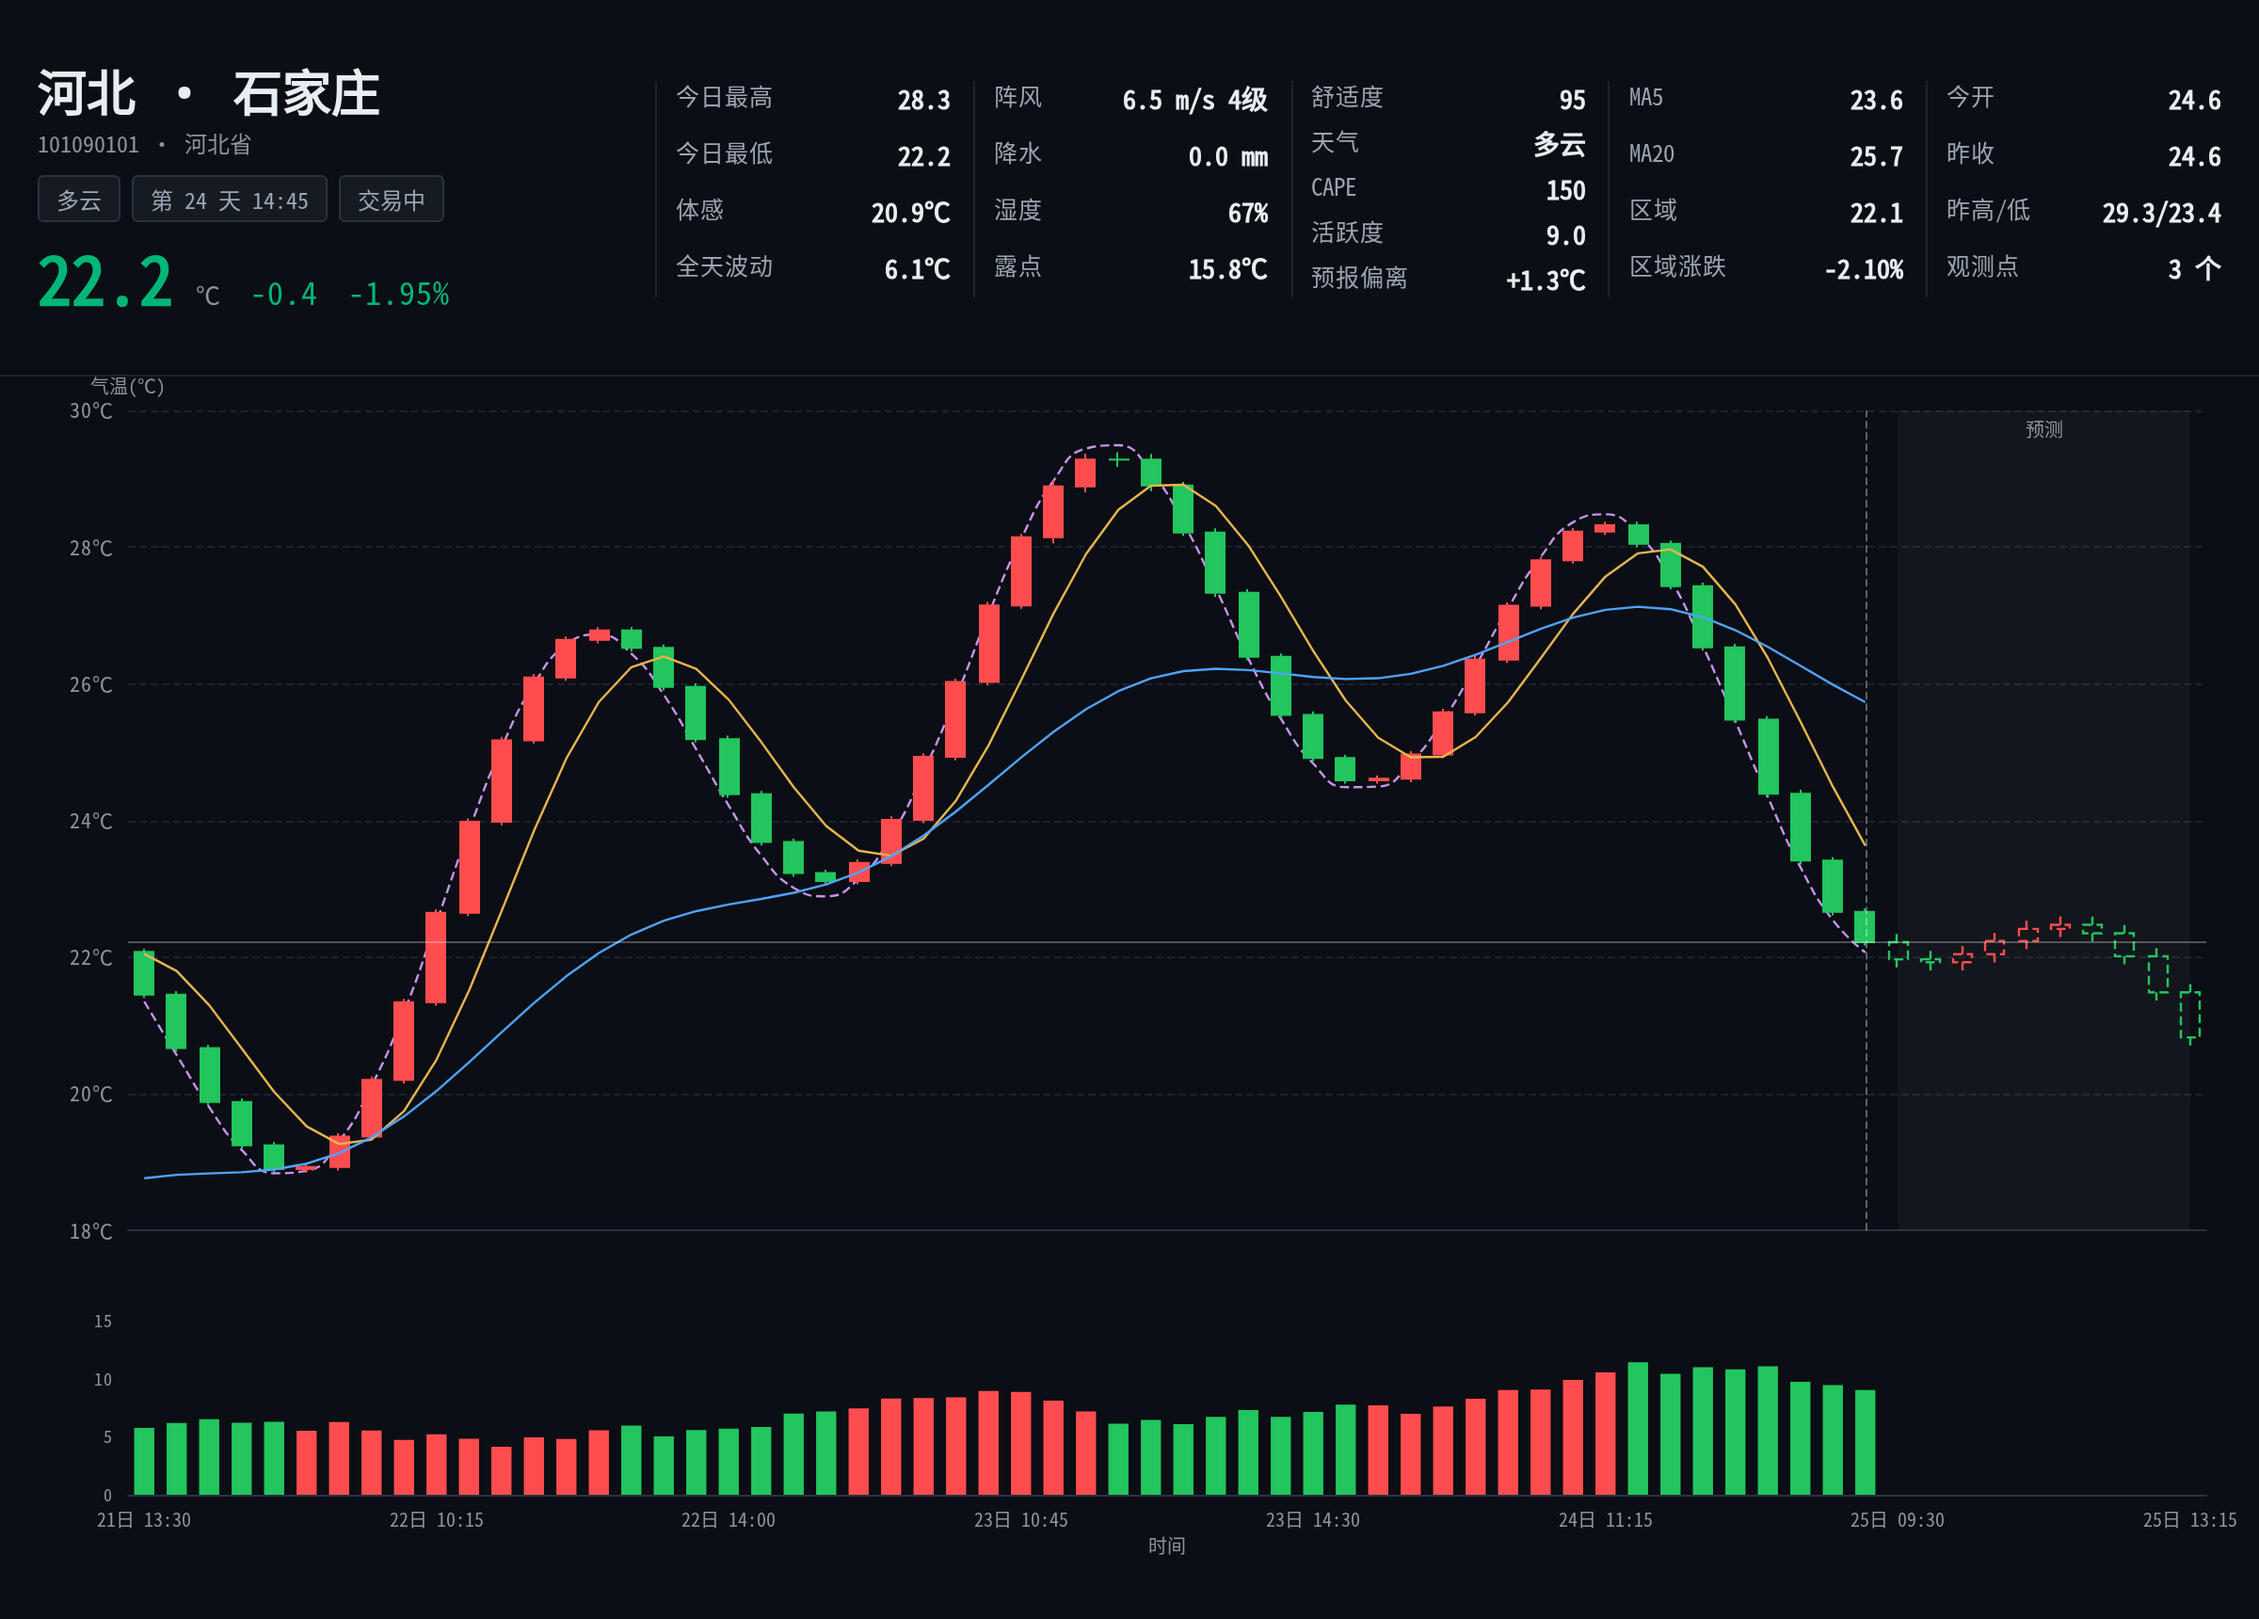
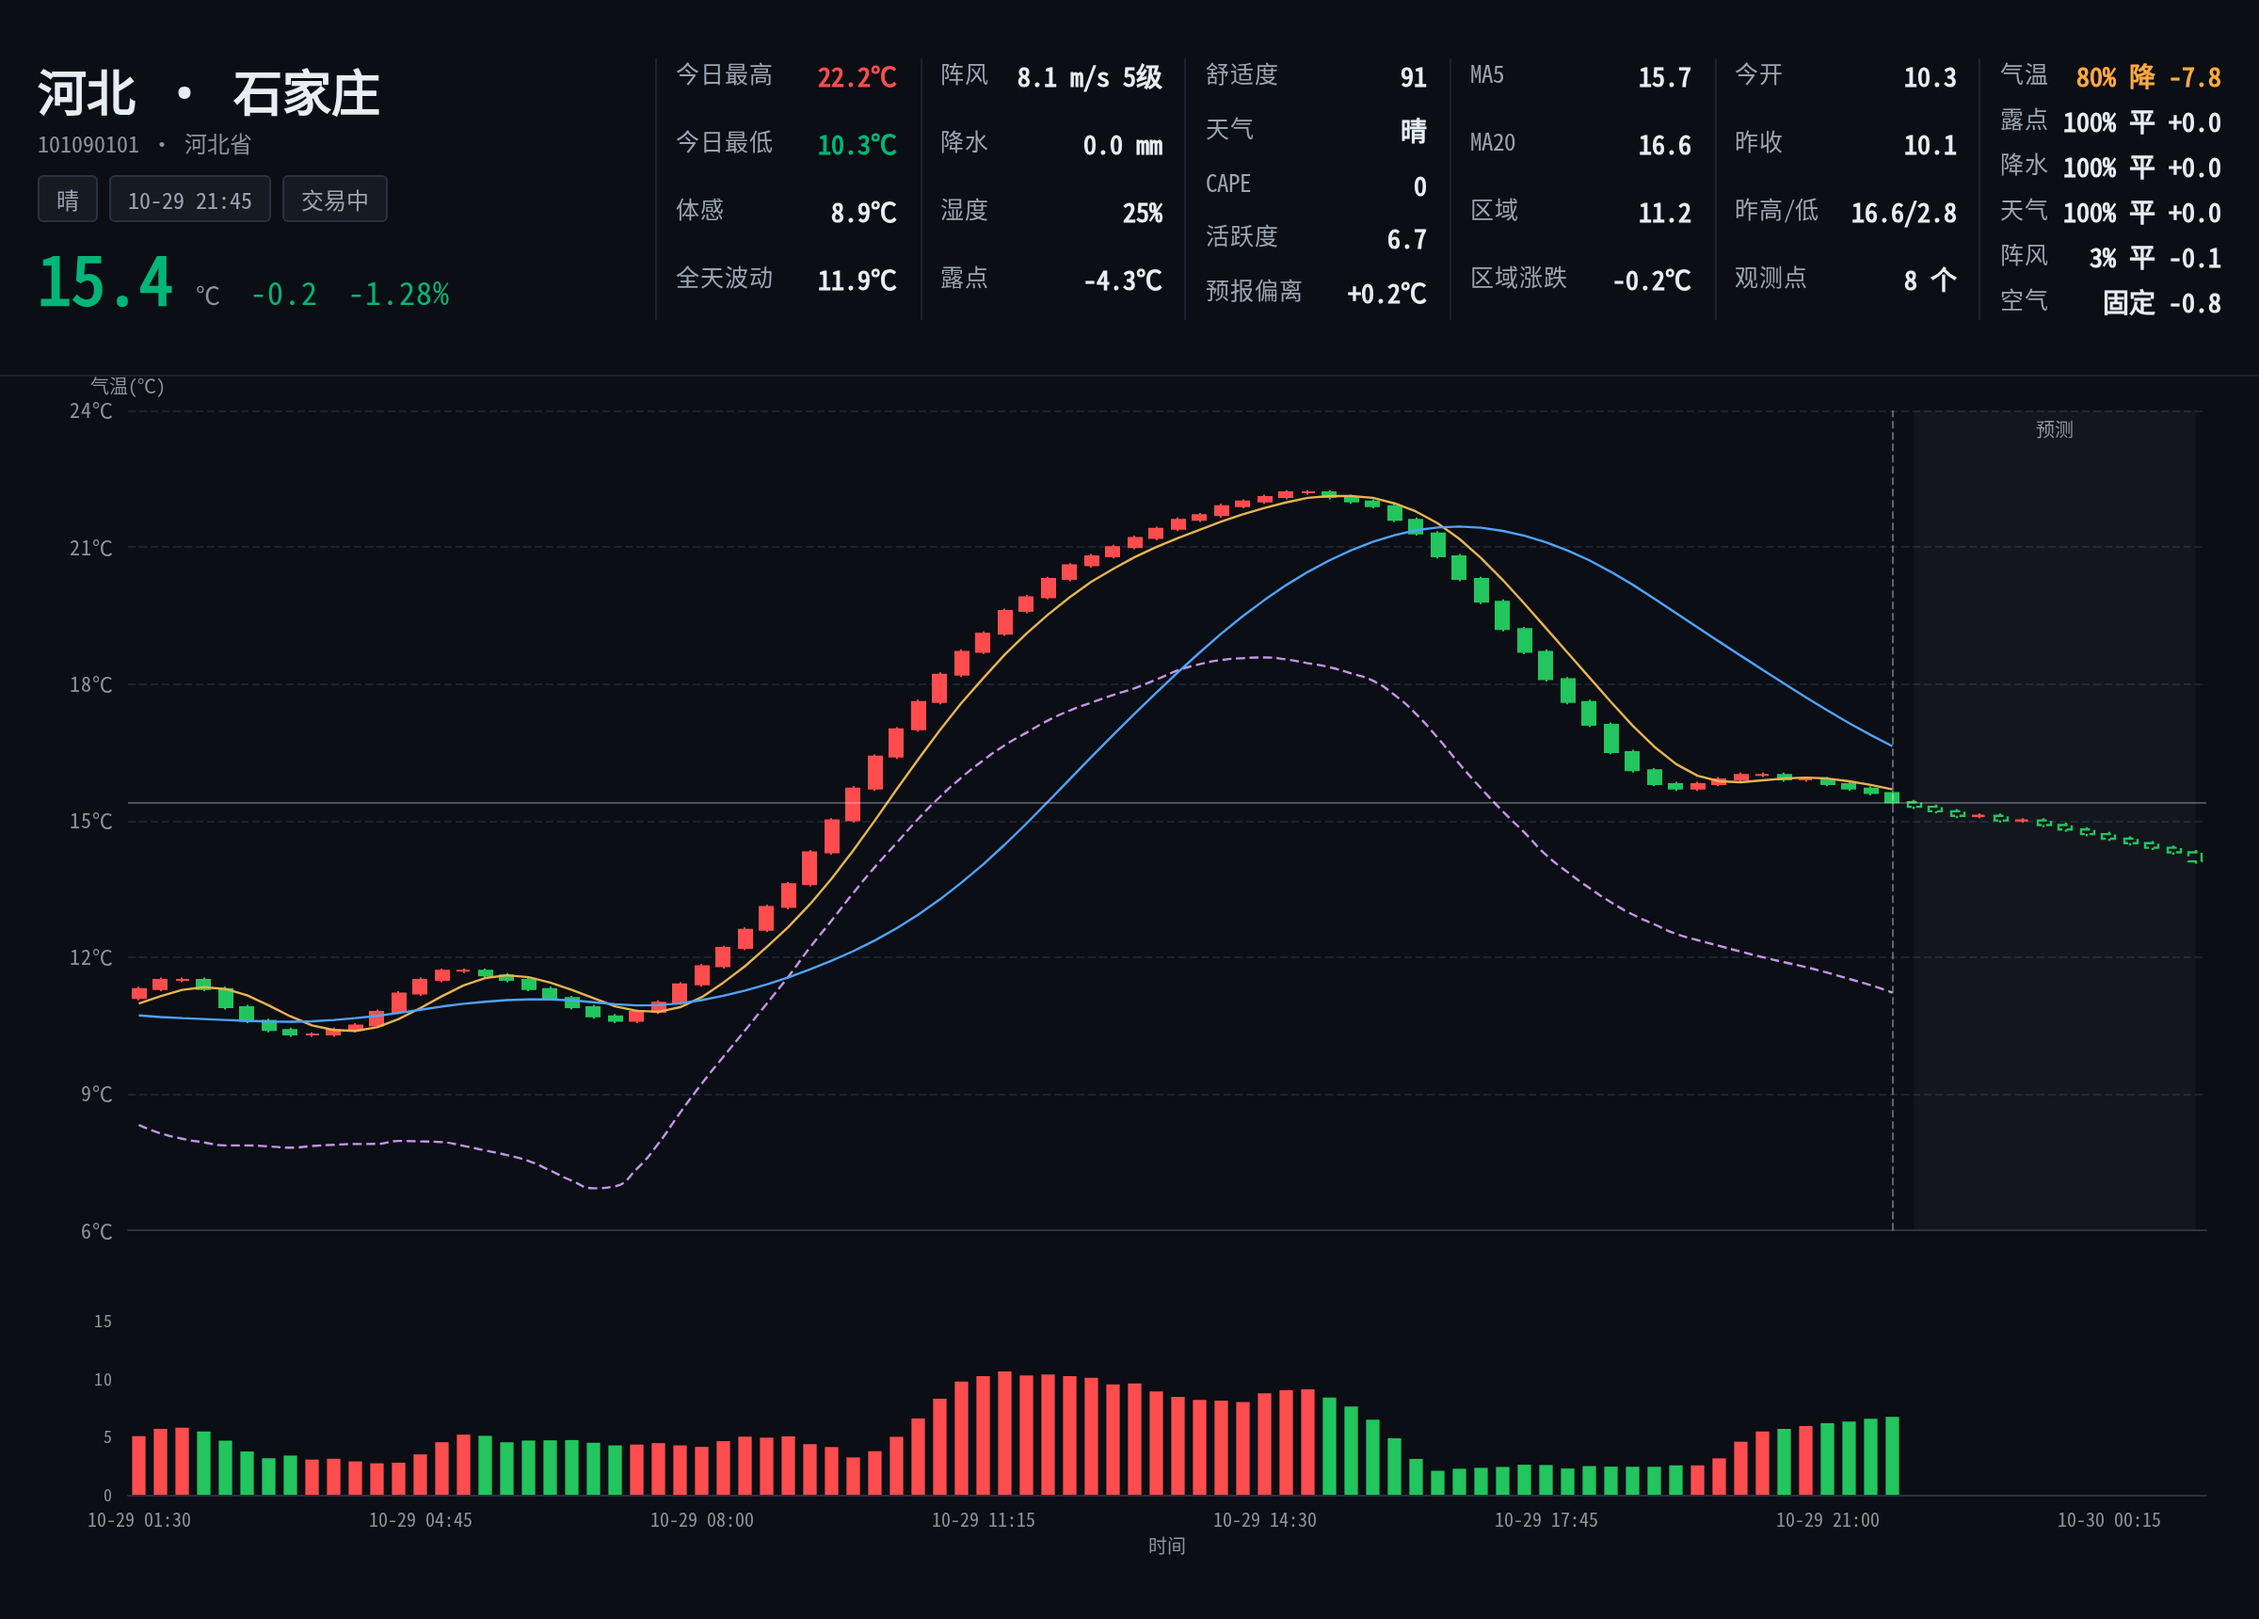
feat(chart): 图头高低温补 ℃ 单位并按红/绿着色，同步重拍 README 主图
- 「今日最高」显示红色、「今日最低」显示绿色；复用主题的 .up/.down 语义
- .qs span 的优先级高于 .up/.down，新增 .qs span.up / .qs span.down 规则
- 图头分组项支持可选的第三个元素作为 CSS class，旧的二元组保持兼容
- sample_header 演示数据同步；新增测试断言单位与 class
- docs/main-chart.png 用当前引擎接真实数据重拍：高低温带 ℃ 与红绿、
  图头含第 6 列压力表、200px 高度与 K 线无重叠，分辨率仍为 2400×1720
- 版本 0.6.5

diff --git a/nonebot_plugin_weather_fighter/render/templates/main_chart.html b/nonebot_plugin_weather_fighter/render/templates/main_chart.html
@@ -27,8 +27,8 @@
     <div class="qh-stats">
       {% for group in header.groups %}
       <div class="qg">
-        {% for label, value in group %}
-        <div class="qs"><b>{{ label }}</b><span>{{ value }}</span></div>
+        {% for item in group %}
+        <div class="qs"><b>{{ item[0] }}</b><span{% if item|length > 2 and item[2] %} class="{{ item[2] }}"{% endif %}>{{ item[1] }}</span></div>
         {% endfor %}
       </div>
       {% endfor %}

diff --git a/nonebot_plugin_weather_fighter/render/static/theme.css b/nonebot_plugin_weather_fighter/render/static/theme.css
@@ -129,6 +129,14 @@ body.wf-ready {
   font-weight: 600;
 }
 
+.qs span.up {
+  color: #ff4d4f;
+}
+
+.qs span.down {
+  color: #00b578;
+}
+
 .qs-worst span {
   color: #ffa940;
 }

diff --git a/tests/test_engine.py b/tests/test_engine.py
@@ -435,3 +435,20 @@ async def test_pressure_air_never_dominant_on_perfect_weather(tmp_path: Path) ->
     assert air["text"].startswith("固定 ")
     assert "85" not in air["text"]
     await store.close()
+
+
+async def test_quote_head_high_low_have_units_and_colors(tmp_path: Path) -> None:
+    now = {"value": at(27, 10, 0)}
+    engine, store, _ = await make_engine(tmp_path, now)
+    hebei = resolve_province("河北")
+    assert hebei is not None
+    state = await engine.ensure_game("u1", "g1", hebei)
+    head = engine.quote_head(state, engine.quote_stats(state))
+    first = {item[0]: item for item in head["groups"][0]}
+    assert first["今日最高"][1].endswith("℃")
+    assert first["今日最高"][2] == "up"
+    assert first["今日最低"][1].endswith("℃")
+    assert first["今日最低"][2] == "down"
+    # 其余分组仍保持二元组，模板向后兼容
+    assert any(len(item) == 2 for group in head["groups"][1:] for item in group)
+    await store.close()

diff --git a/nonebot_plugin_weather_fighter/game/engine.py b/nonebot_plugin_weather_fighter/game/engine.py
@@ -1276,10 +1276,13 @@ class GameEngine:
         def num(value: float | None, digits: int = 1) -> str:
             return "—" if value is None else f"{value:,.{digits}f}"
 
+        def temp(value: float | None) -> str:
+            return "—" if value is None else f"{value:.1f}℃"
+
         groups = (
             (
-                ("今日最高", num(stats.temp_high)),
-                ("今日最低", num(stats.temp_low)),
+                ("今日最高", temp(stats.temp_high), "up"),
+                ("今日最低", temp(stats.temp_low), "down"),
                 (
                     "体感",
                     "—" if stats.feels_like is None else f"{stats.feels_like:.1f}℃",

diff --git a/nonebot_plugin_weather_fighter/render/charts.py b/nonebot_plugin_weather_fighter/render/charts.py
@@ -374,8 +374,8 @@ def sample_header(bars: list[Bar]) -> dict[str, Any]:
         "up": change >= 0,
         "groups": (
             (
-                ("今日最高", f"{high:.1f}"),
-                ("今日最低", f"{low:.1f}"),
+                ("今日最高", f"{high:.1f}℃", "up"),
+                ("今日最低", f"{low:.1f}℃", "down"),
                 ("体感", f"{last.close - 1.0:.1f}℃"),
                 ("全天波动", f"{high - low:.1f}℃"),
             ),
